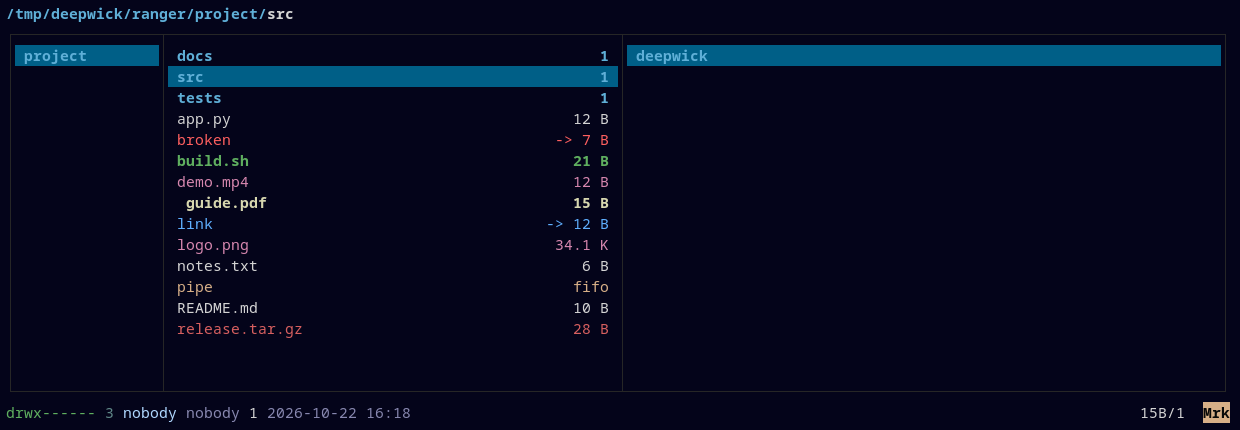
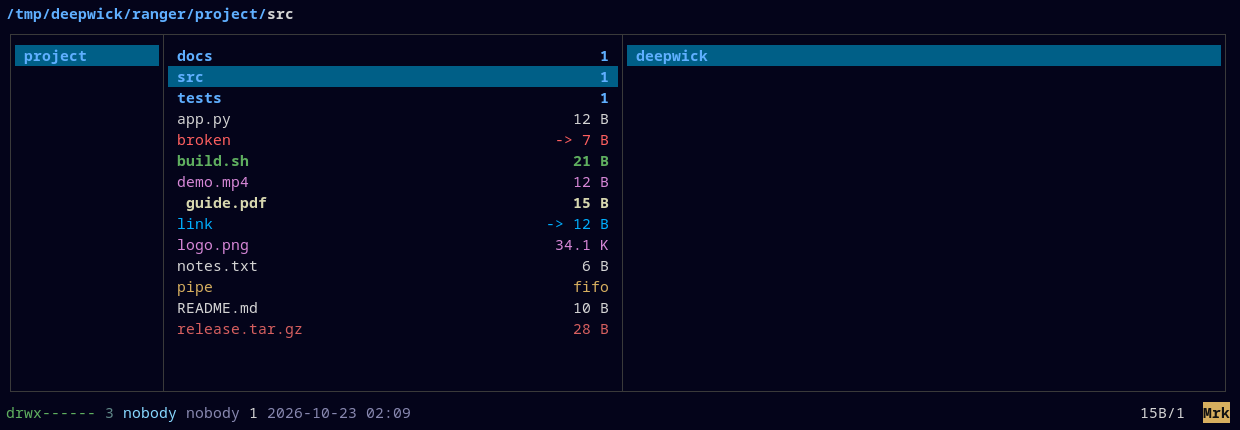
Use the spec's 256-color palette

diff --git a/generate.py b/generate.py
@@ -1,4 +1,4 @@
-"""Rewrite the generated color block in deepwick.py from the Deepwick palette (nearest xterm-256 colors).
+"""Rewrite the generated color block in deepwick.py from Deepwick's 256-color palette.
 
 Run from this directory: PYTHONPATH=../spec python3 generate.py
 """
@@ -6,7 +6,6 @@ import re
 from pathlib import Path
 
 from deepwick_spec.palette import Palette, load_palette
-from deepwick_spec.xterm256 import nearest_index
 
 SCHEME = Path(__file__).with_name("deepwick.py")
 BEGIN = "# BEGIN generated by generate.py\n"
@@ -16,7 +15,7 @@ NAMES = ("background", "foreground", "selection", "overlay", "muted", "comment",
 
 
 def block(palette: Palette) -> str:
-    entries = "".join(f'    "{name}": {nearest_index(palette.colors[name])},\n' for name in NAMES)
+    entries = "".join(f'    "{name}": {palette.xterm256[name]},\n' for name in NAMES)
     return f"{BEGIN}C = {{\n{entries}}}\n{END}"
 
 

diff --git a/deepwick.py b/deepwick.py
@@ -9,20 +9,20 @@ from ranger.gui.colorscheme import ColorScheme
 
 # BEGIN generated by generate.py
 C = {
-    "background": 232,
+    "background": 233,
     "foreground": 188,
     "selection": 24,
-    "overlay": 235,
+    "overlay": 237,
     "muted": 66,
     "comment": 103,
-    "blue": 74,
-    "lightBlue": 153,
-    "cyan": 75,
-    "teal": 79,
+    "blue": 75,
+    "lightBlue": 117,
+    "cyan": 39,
+    "teal": 43,
     "yellow": 187,
-    "gold": 180,
+    "gold": 179,
     "rose": 167,
-    "magenta": 175,
+    "magenta": 176,
     "green": 71,
     "red": 203,
 }

diff --git a/tests/test_ranger.py b/tests/test_ranger.py
@@ -16,7 +16,6 @@ from deepwick_spec.ansi import runs
 from deepwick_spec.check_port import check_port
 from deepwick_spec.palette import load_palette
 from deepwick_spec.tui import capture, tmux_available
-from deepwick_spec.xterm256 import nearest_index
 
 REPO = Path(__file__).resolve().parents[1]
 SCHEME = REPO / "deepwick.py"
@@ -34,7 +33,7 @@ DEFAULT = -1
 
 
 def idx(name):
-    return nearest_index(C[name])
+    return PALETTE.xterm256[name]
 
 
 def test_generated_block_matches():

diff --git a/README.md b/README.md
@@ -38,7 +38,8 @@ A `rc.conf` holding only that line works: ranger loads its built-in
   copied files are Muted; git status marks (`vcs_aware`) are Green for staged
   and clean, Blue for changed, Teal for untracked.
 - ranger draws through curses, which has no 24-bit color, so these are the
-  nearest 256-color matches. Backgrounds are left to the terminal, so a
+  colors from [Deepwick's 256-color palette](https://github.com/deepwick/spec#256-color-palette).
+  Backgrounds are left to the terminal, so a
   Deepwick terminal theme ([Konsole](https://github.com/deepwick/konsole),
   [Ptyxis](https://github.com/deepwick/ptyxis),
   [Alacritty](https://github.com/deepwick/alacritty),
